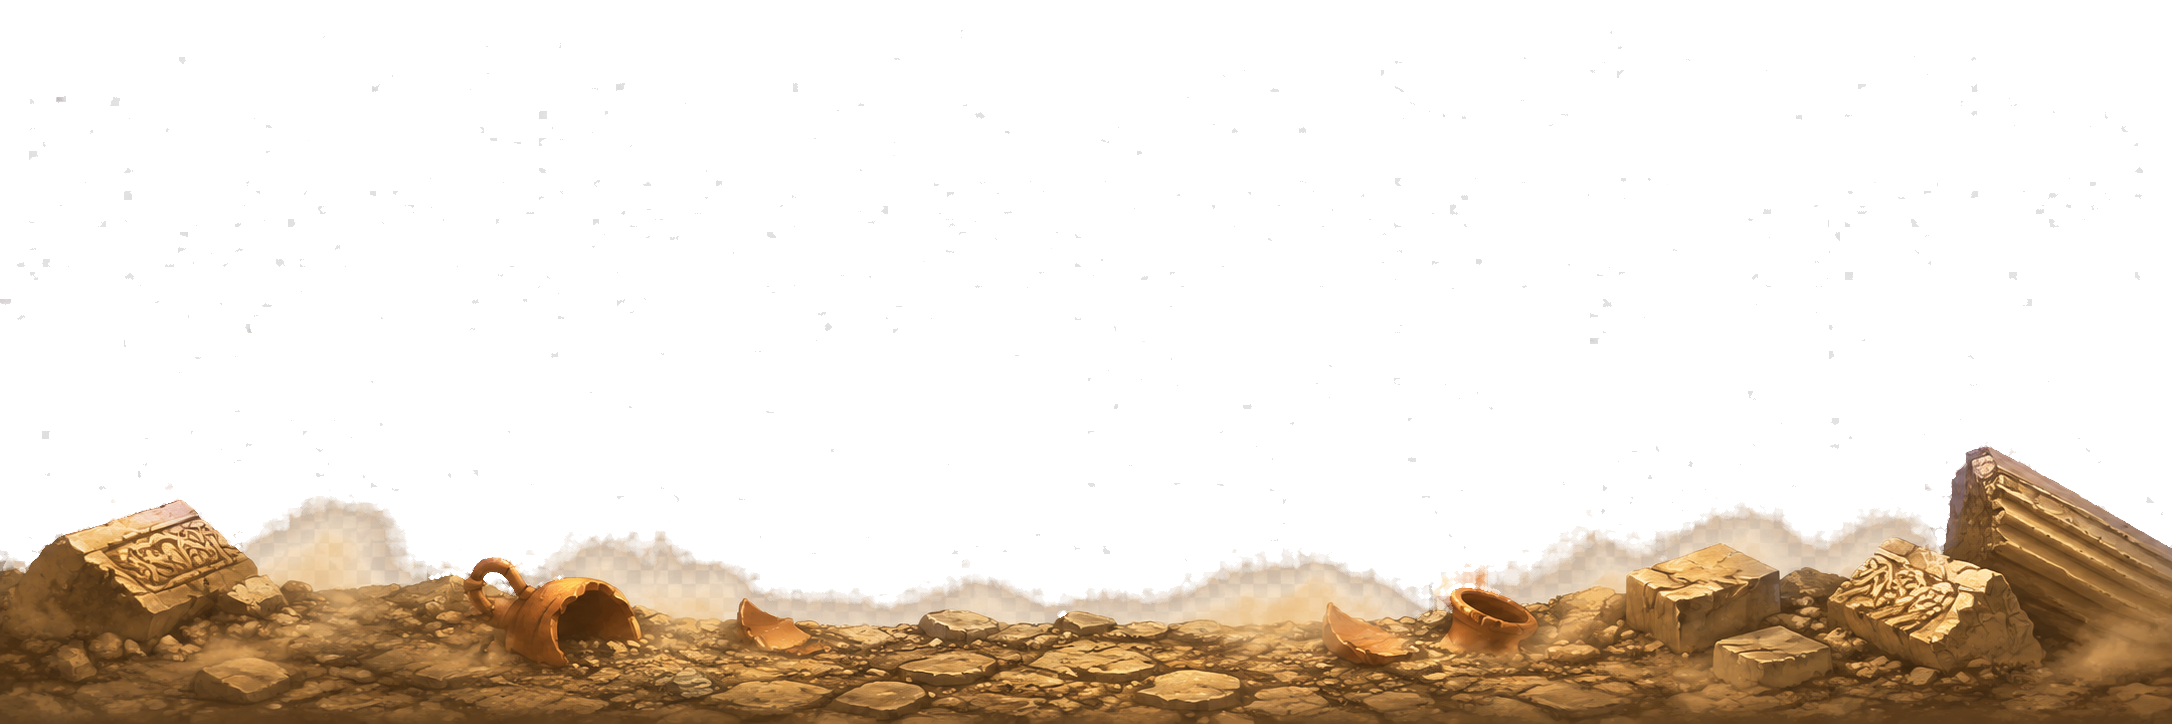
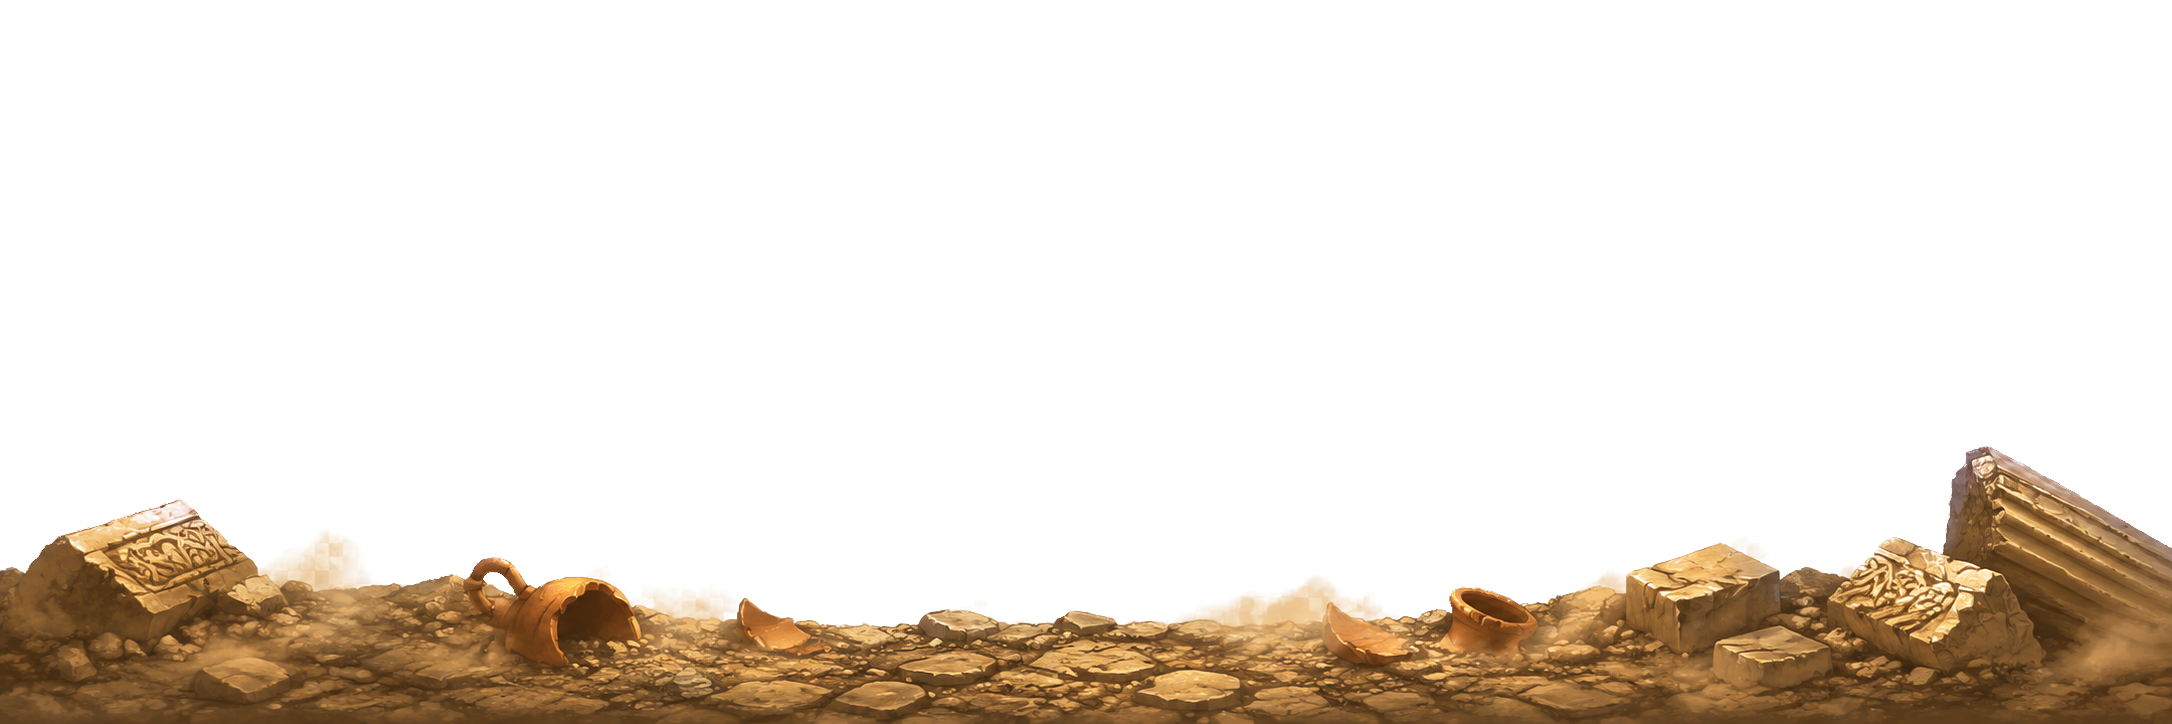
Polish Rome foreground: de-haze, shrink, and solidify rubble
Address the via-sacra foreground reading wrong in-game: strip the white
dust mist that didn't belong (kill alpha of the light, desaturated puff
pixels, measured from the source so grading can't mask them), draw the
3:1 plate at ~80% height bottom-anchored so it stops looking oversized
versus the old 2.44:1 art, and raise its layer alpha 0.82 -> 1 so the
rubble reads solid instead of faint.

Changed region(s): [[0.0925, 0.6685, 0.8946, 0.8812], [0.0617, 0.6989, 0.0925, 0.7293], [0.0, 0.7597, 0.0308, 0.7901]]

diff --git a/src/components/ExpeditionJourney.jsx b/src/components/ExpeditionJourney.jsx
@@ -2872,7 +2872,9 @@ const SECTION_PARALLAX_LAYERS = {
     { key: 'farAqueductArches', y: 0, height: CANVAS_HEIGHT, parallax: 0.08, alpha: 0.98 },
     { key: 'distantHillSide', y: 0, height: CANVAS_HEIGHT, parallax: 0.14, alpha: 0.94 },
     { key: 'midgroundRoadRuins', y: 0, height: CANVAS_HEIGHT, parallax: 0.25, alpha: 1 },
-    { key: 'foregroundDust', y: 0, height: CANVAS_HEIGHT, parallax: 0.48, alpha: 0.82 },
+    // Foreground rubble: drawn at ~80% height, bottom-anchored, so the 3:1 art
+    // doesn't render oversized vs the old 2.44:1 plate; full alpha keeps it solid.
+    { key: 'foregroundDust', y: Math.round(CANVAS_HEIGHT * 0.2), height: Math.round(CANVAS_HEIGHT * 0.8), parallax: 0.48, alpha: 1 },
   ],
   'forum-ruins': [
     { key: 'forumSky', y: 0, height: CANVAS_HEIGHT, parallax: 0, alpha: 1 },
